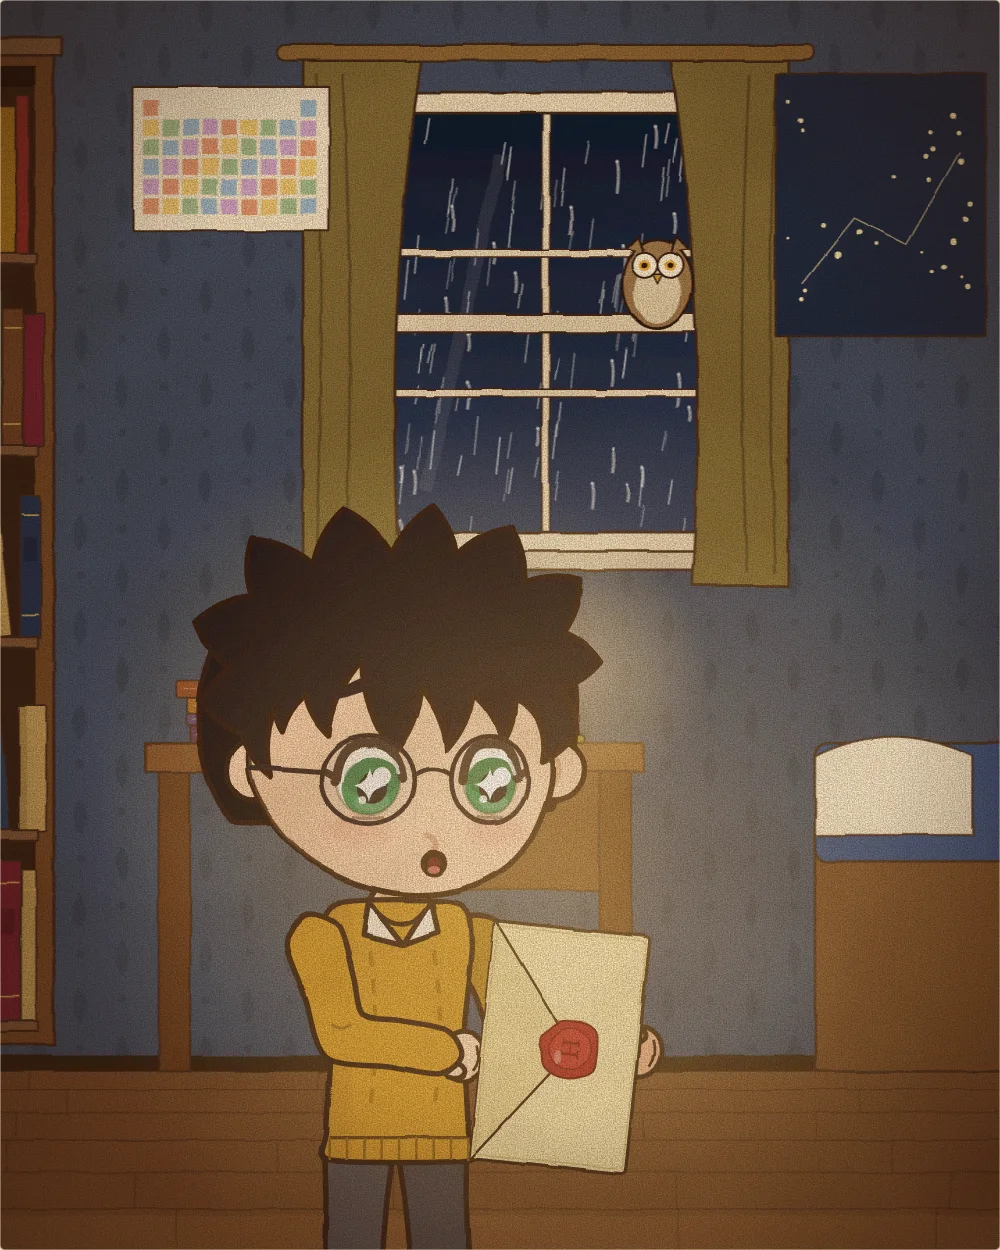
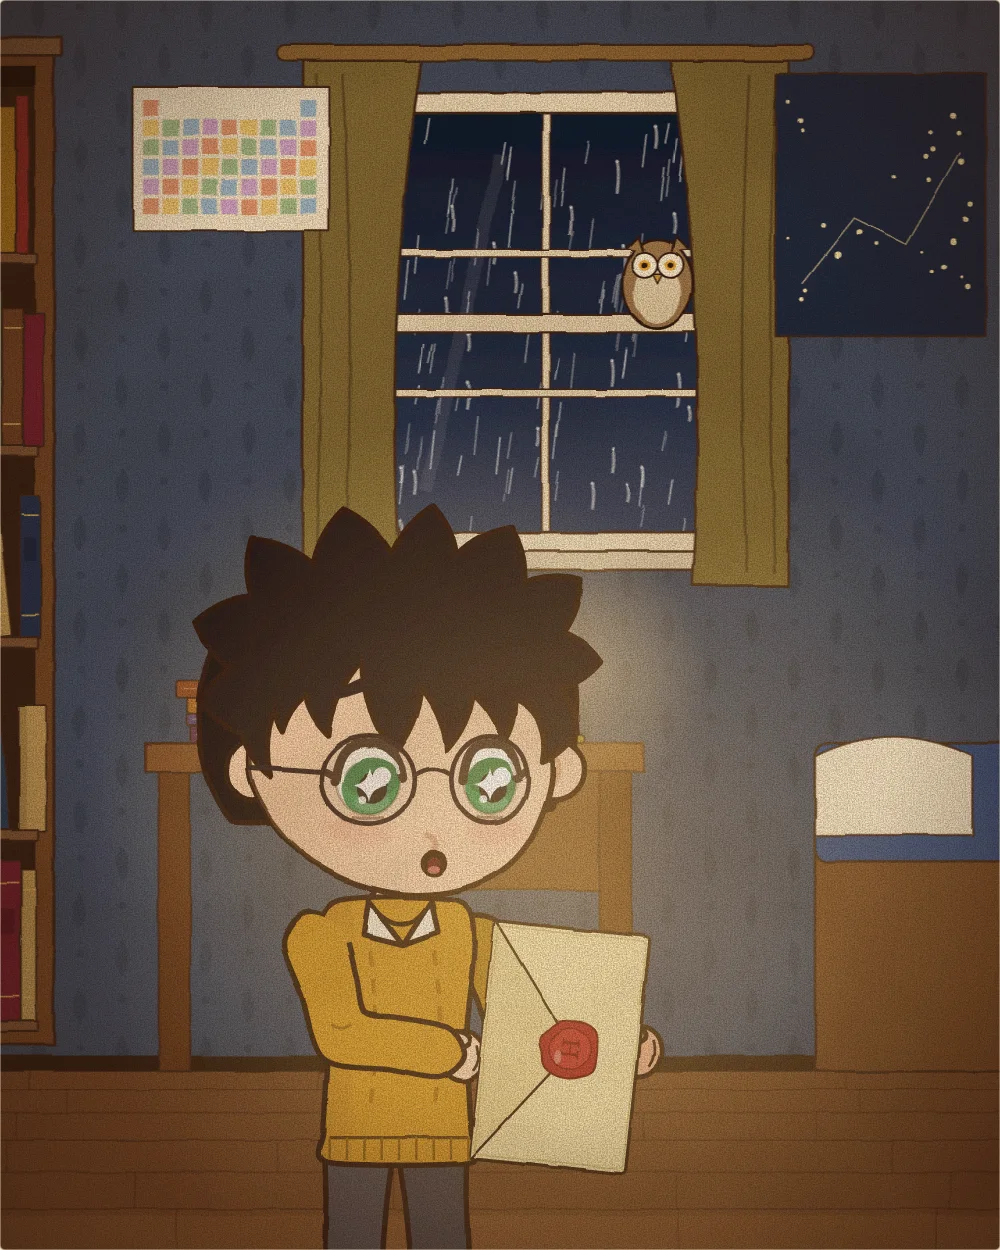
Re-render the homepage cover on the current engine (seamless shoulders)
The cover is rendered separately from the episodes, so it had missed the recent engine
changes. The relayout skill's after-an-engine-change step now includes it.

Claude-Session: https://claude.ai/code/session_01CdGHD1DbjMsXeqiKN8XrNF

Changed region(s): [[0.31, 0.7176, 0.496, 0.936], [0.279, 0.7176, 0.403, 0.8112], [0.465, 0.8736, 0.496, 0.9048]]

diff --git a/.claude/skills/relayout/SKILL.md b/.claude/skills/relayout/SKILL.md
@@ -59,7 +59,7 @@ Everything is set in the episode file; `docs/ENGINE.md` lists the options (ballo
 
 Do not be afraid to **majorly** redo a panel from scratch, especially if it would flow better. This includes but is not limited to: repositioning the characters, resizing the entire panel (increasing the height is a good technique to get around difficult overlaps or otherwise too crowded panels), completely changing shot size/framing, splitting a panel into multiple panels, deleting/adding elements.
 
-In the case that it's an engine bug, definitely feel free to fix it. However, be mindful of how the change affects other panels -- you may need to relayout them. Re-render every episode after an engine change (`for f in episodes/ep[0-9]*.js; do node engine/render.mjs $(basename $f .js); done`) and look at what moved; `node work/tilesfor.mjs` helps find the tiles a pose change affects.
+In the case that it's an engine bug, definitely feel free to fix it. However, be mindful of how the change affects other panels -- you may need to relayout them. Re-render every episode after an engine change (`for f in episodes/ep[0-9]*.js; do node engine/render.mjs $(basename $f .js); done`) and the homepage cover (`node engine/render.mjs --file episodes/cover.js --cover`), and look at what moved; `node work/tilesfor.mjs` helps find the tiles a pose change affects.
 
 ## Final verification
 
